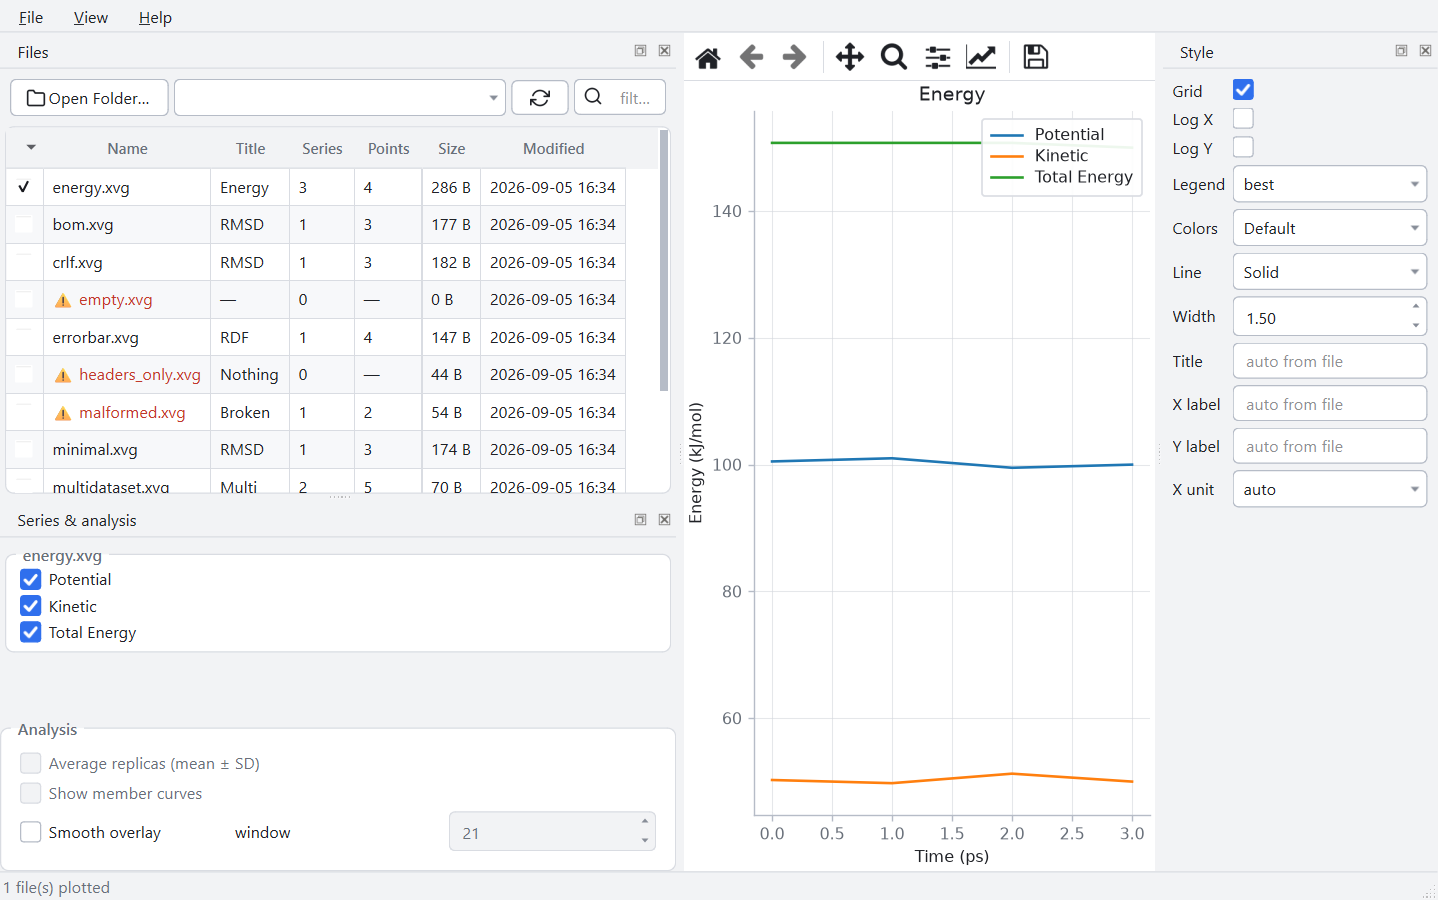
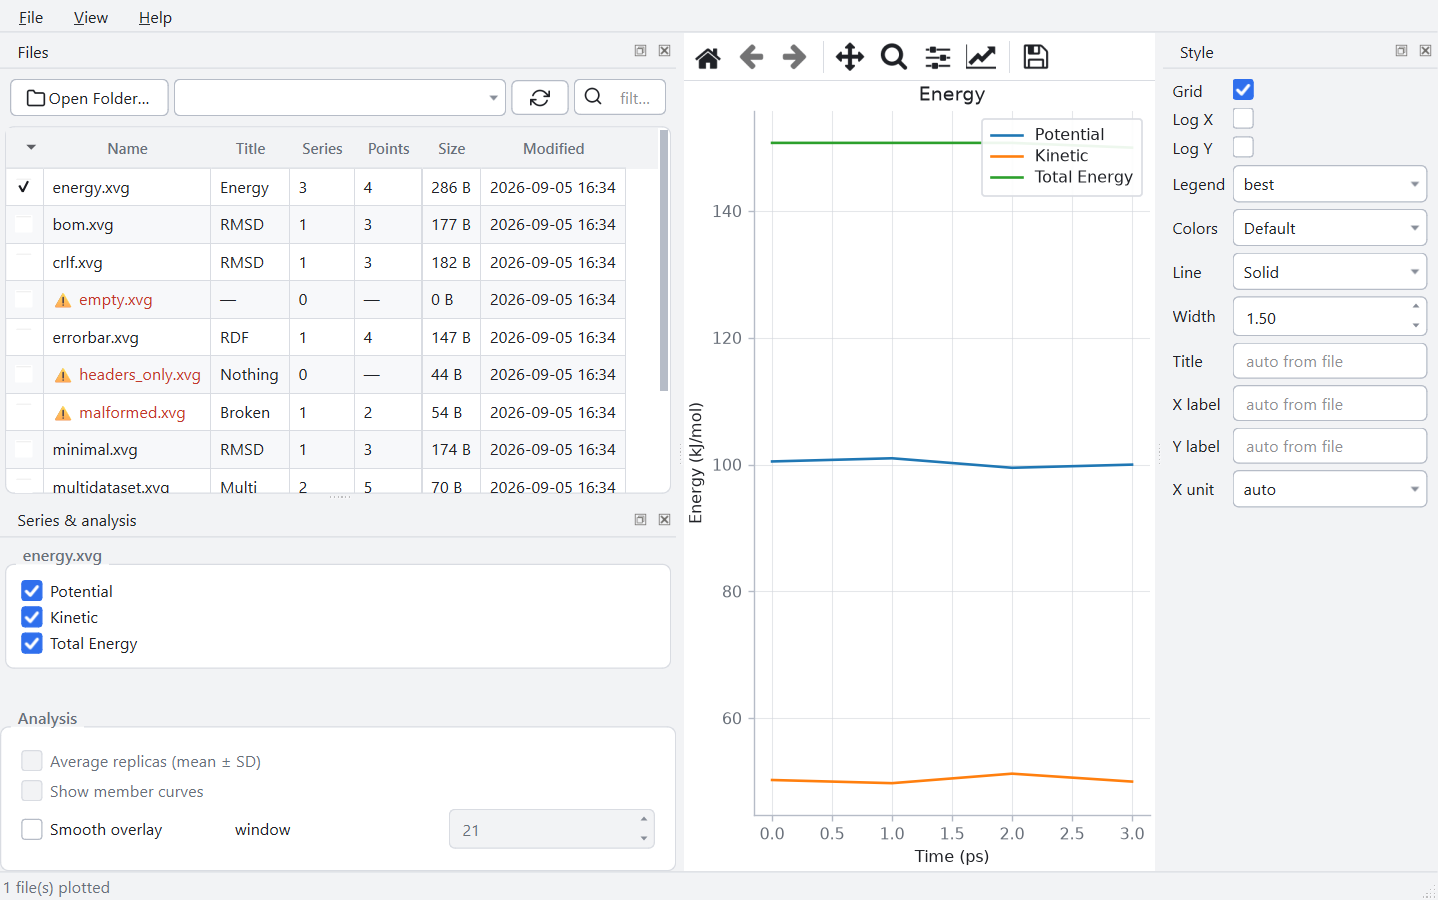
Fix QGroupBox title/content clipping
The 8pt dock group titles are ~14px tall but the top margin was 9px, so
the box border sliced through the title text and content sat flush
against the bottom edge. Give the margin band 17px and add vertical
breathing room to per-file series groups.

Changed region(s): [[0.0, 0.7778, 0.1836, 0.9333], [0.0, 0.6222, 0.0918, 0.7467], [0.153, 0.9022, 0.2142, 0.9333]]

diff --git a/src/xvg_plotter/ui/series_dock.py b/src/xvg_plotter/ui/series_dock.py
@@ -17,7 +17,7 @@ from PySide6.QtWidgets import (
     QWidget,
 )
 
-from ..core.models import XvgFile
+from ..core.models import XvgFile, series_label
 from . import theme
 
 
@@ -147,7 +147,7 @@ class SeriesDock(QWidget):
     def _make_group(self, f: XvgFile, active_ds: dict, visible: dict) -> _Group:
         box = QGroupBox(f.path.name)
         v = QVBoxLayout(box)
-        v.setContentsMargins(theme.SP_S, 0, theme.SP_S, 0)
+        v.setContentsMargins(theme.SP_S, 2, theme.SP_S, 2)
         v.setSpacing(theme.SP_S - 1)
         combo = None
         if not f.datasets:
@@ -164,7 +164,7 @@ class SeriesDock(QWidget):
             v.addWidget(combo)
         checks = []
         for i, s in enumerate(ds.series):
-            label = s.legend or f"column {s.y_col}"
+            label = series_label(s, f.y_label, len(ds.series))
             if s.dy_col is not None:
                 label += f"  (± col {s.dy_col})"
             if s.dx_col is not None:

diff --git a/src/xvg_plotter/core/models.py b/src/xvg_plotter/core/models.py
@@ -52,3 +52,17 @@ class XvgFile:
     y_label: str | None = None
     warnings: list[str] = field(default_factory=list)
     stats: ParseStats = field(default_factory=ParseStats)
+
+
+def series_label(s: SeriesSpec, y_label: str | None = None,
+                 series_count: int = 1) -> str:
+    """Single source for series display names (dock, legend, averages).
+
+    Preference: `@ sN legend` from the file, then the file's y-axis label when
+    the dataset has a single series (e.g. "RMSD (nm)"), else the column number.
+    """
+    if s.legend:
+        return s.legend
+    if series_count == 1 and (y_label or "").strip():
+        return y_label.strip()
+    return f"column {s.y_col}"

diff --git a/src/xvg_plotter/ui/theme.py b/src/xvg_plotter/ui/theme.py
@@ -228,7 +228,7 @@ QSpinBox::down-arrow, QDoubleSpinBox::down-arrow {{
 QGroupBox {{
     background: {t.panel};
     border: 1px solid {t.border}; border-radius: 7px;
-    margin-top: 9px; padding: 10px 7px 7px 7px;
+    margin-top: 17px; padding: 9px 8px 9px 8px;
     font-weight: 600;
 }}
 QGroupBox::title {{

diff --git a/src/xvg_plotter/ui/main_window.py b/src/xvg_plotter/ui/main_window.py
@@ -17,7 +17,7 @@ from PySide6.QtWidgets import (
 
 from .. import settings
 from ..core import analysis
-from ..core.models import XvgFile
+from ..core.models import XvgFile, series_label
 from ..export import copy_image, save_figure
 from ..version import APP_VERSION
 from . import theme
